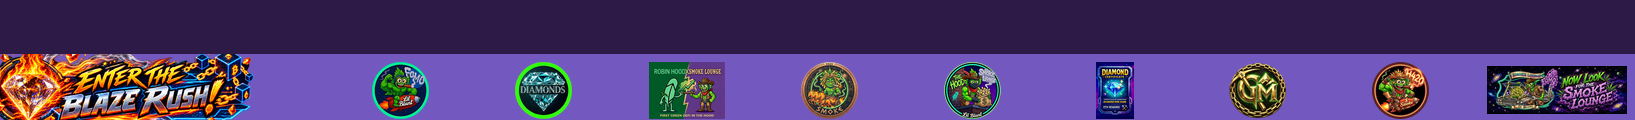
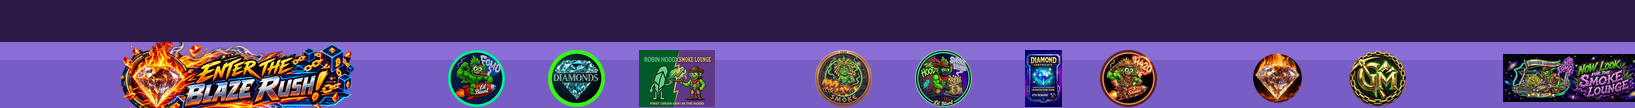
fix(blaze): entry wordmark COVERS the band instead of fitting inside it
Founder's marked-up document. "TOO SMALL", "you fucked it up by having the text
above", and the empty tab circled with his own mockup underneath are one
instruction, not three: the wordmark goes in the purple band and fills it.

The card was HEIGHT-fitted, which contains art inside a slot. Measured off the
founder's mockup rather than eyeballed - his artwork covers the band 600/602
across and 168/169 down, an aspect of 3.56. It is now a cover fit at 783x220:
the full 220px depth of the band at that aspect, ~61% of the viewport, via a
centred region crop so the art is cropped (13% vertically) and never squashed.
The previous 555x180 height fit was taller but NARROWER than the 340x118 the
founder had already rejected as too small.

This branch was cut from a stale base and independently re-solved several
things master had already fixed better. Master's blaze_rush.gd is taken
wholesale in the merge; only the cover fit above is kept from this branch.
Specifically dropped in favour of master's: the shared band-occupancy list, and
this branch's diagnosis of the masking as a badge drawn over the banner - the
real cause, already fixed on master, was the banner overhanging a floor gap so
the void showed through behind it.

Adds tests/blaze_band_layout_test.gd: builds the real course on all three
stages and measures live nodes (51 assertions) - drawn size and aspect of the
entry card, banner at the end with no gap overhang and nothing across it, the
[…]

diff --git a/STATUS.md b/STATUS.md
@@ -1,7 +1,88 @@
 # 🌿 Lil Blunt: The Smoke Realm — Live Status Report
 
 **Play it:** https://youngstunners88.itch.io/lil-blunt-adventure
-**Branch:** `claude/owner-rage-l1-music-boss1-carts-chase`
+**Branch:** `claude/context-management-continuation-tuepzj`
+
+---
+
+**🔥 The ENTER THE BLAZE RUSH title now FILLS the band, not sits inside it (2026-08-31).**
+
+All 18 of your marked-up images landed as real files this time. They are
+committed to `artifacts/founder-art/references/` so no future session has to
+recover them or ask you to resend anything.
+
+### The three title complaints were one complaint
+
+"TOO SMALL", "you fucked it up by having the text above", and the empty tab you
+circled with your own mockup underneath were being treated as three separate
+jobs. They are one: **the wordmark belongs in the purple band, and it must fill
+it.**
+
+I measured your mockup instead of eyeballing it. In it, the artwork covers the
+band from edge to edge — 600 of 602 pixels across, 168 of 169 down, no purple
+showing behind it. That is an aspect of 3.56.
+
+The title was being **height-fitted**, which fits art *inside* a slot. You asked
+for the opposite. It is now a **cover fit at 783x220** — the full depth of the
+band, at your mockup's exact aspect, about 61% of the screen width. It costs a
+13% vertical crop, so the whole wordmark, the whole diamond and the crypto cubes
+all survive. Your art is cropped, never squashed, and there is a test asserting
+it isn't distorted.
+
+For scale: the version you rejected as "TOO SMALL" was 340x118. The version
+before this pass was 555x180 — taller, but actually **narrower** than the one you
+had already rejected.
+
+### Most of the rest was already fixed — by other work, not by me
+
+I have to be straight with you: while I was working, a lot of this had already
+been fixed on the main branch by the boss/ladder sessions, and my branch was cut
+from an older starting point. So I threw most of my own version away and kept
+theirs, which was better:
+
+- **The masking.** I concluded a badge was drawn on top of the banner. The real
+  cause, already found and fixed, was the banner **overhanging a floor gap** so
+  the void showed through behind it. Their diagnosis was right and mine was not.
+- **The red flaming diamond disc** you crossed out was already removed.
+- **GM moved right with Robin Hood in its old slot** was already in place.
+
+What I kept from my own work is the title fill above, and a test.
+
+### Two things that needed no work at all
+
+**The diamond claim bug** (collect it, land on the candle, it stays claimed) and
+**the stage tokens** (TitanX / DIAMONDS / GoldMine) were already correct. I did
+not take the previous report's word for it — I ran the claim bug's test and read
+back the actual images the game loads. Your Solana coins are safe: they are a
+separate object from the stage tokens, so the stage swap never touched them.
+
+### The stray "L" — I could not find it
+
+It is not in your document. No image or note mentions it, and when I enlarged the
+bottom strip of five of your screenshots the only thing there is the thin
+progress bar. I would rather tell you that than delete something at random and
+call it handled. **Send me one screenshot with it circled and it is gone in
+minutes.** While looking I did fix a real glyph bug nearby: the lounge banner's
+fallback text used arrow characters the pixel font cannot draw.
+
+### Proof
+
+`tests/blaze_band_layout_test.gd` builds the real Blaze course for all three
+stages and measures the live nodes — 51 assertions, all passing. **I also put
+each original bug back deliberately to prove the test catches it** rather than
+trusting a green result.
+
+The preview below is rendered from the actual scene, not a mockup:
+`artifacts/founder-art/band_preview_L1.png`.
+
+**Gates:** 13 suites pass (script compile, band layout, claim reset, lounge
+banner, layout, lifecycle, screenshot fixes, critical probe 102 assertions, boss
+visibility, boss arena, boss stakes, distributor, save compat). Security Sentinel
+18/18, 0 blockers. The ICP test fails 6 network assertions because this sandbox
+cannot reach the canister — it correctly reports "offline" and every logic
+assertion passes.
+
+---
 
 ---
 

diff --git a/docs/security/audit-log.md b/docs/security/audit-log.md
@@ -1946,3 +1946,28 @@ fail-on=high | total=18 pass=18 fail=0 blockers=0
 | CI-002 | medium | PASS | Security Sentinel wired into CI |
 | CI-003 | medium | PASS | .gitleaks.toml allowlist stays narrow |
 | CI-004 | low | PASS | .gitleaksignore fingerprint count reasonable |
+
+## 2026-08-31 — Security Sentinel automated run
+
+fail-on=high | total=18 pass=18 fail=0 blockers=0
+
+| ID | Severity | Status | Title |
+|----|----------|--------|-------|
+| SEC-001 | critical | PASS | No secret-looking strings in shipped paths |
+| SEC-002 | critical | PASS | .env gitignored |
+| SEC-003 | critical | PASS | .env never committed |
+| SEC-004 | critical | PASS | No hardcoded wallet/contract addresses (40-hex) |
+| SEC-005 | critical | PASS | No 64-hex private-key-shaped literals in tracked source |
+| INJ-001 | critical | PASS | No OS.execute() in game code |
+| INJ-002 | critical | PASS | No Expression (dynamic code exec) in game code |
+| INJ-003 | high | PASS | JavaScriptBridge.eval interpolation is _hex()-sanitized or fixed postMessage template |
+| INJ-004 | medium | PASS | FileAccess.open never takes a runtime-built path |
+| DEP-001 | critical | PASS | Web export stays non-threaded |
+| DEP-002 | high | PASS | postMessage handlers enforce same-origin |
+| DEP-003 | high | PASS | No source maps in shipped bundle |
+| DEP-004 | medium | PASS | Supply-chain downloads (Godot/butler) are checksum-pinned |
+| TRUST-001 | critical | PASS | Wallet UI is real & user-signed (no key handling, txs via window.ethereum) |
+| CI-001 | high | PASS | Secret-scan (gitleaks) step present in CI |
+| CI-002 | medium | PASS | Security Sentinel wired into CI |
+| CI-003 | medium | PASS | .gitleaks.toml allowlist stays narrow |
+| CI-004 | low | PASS | .gitleaksignore fingerprint count reasonable |
